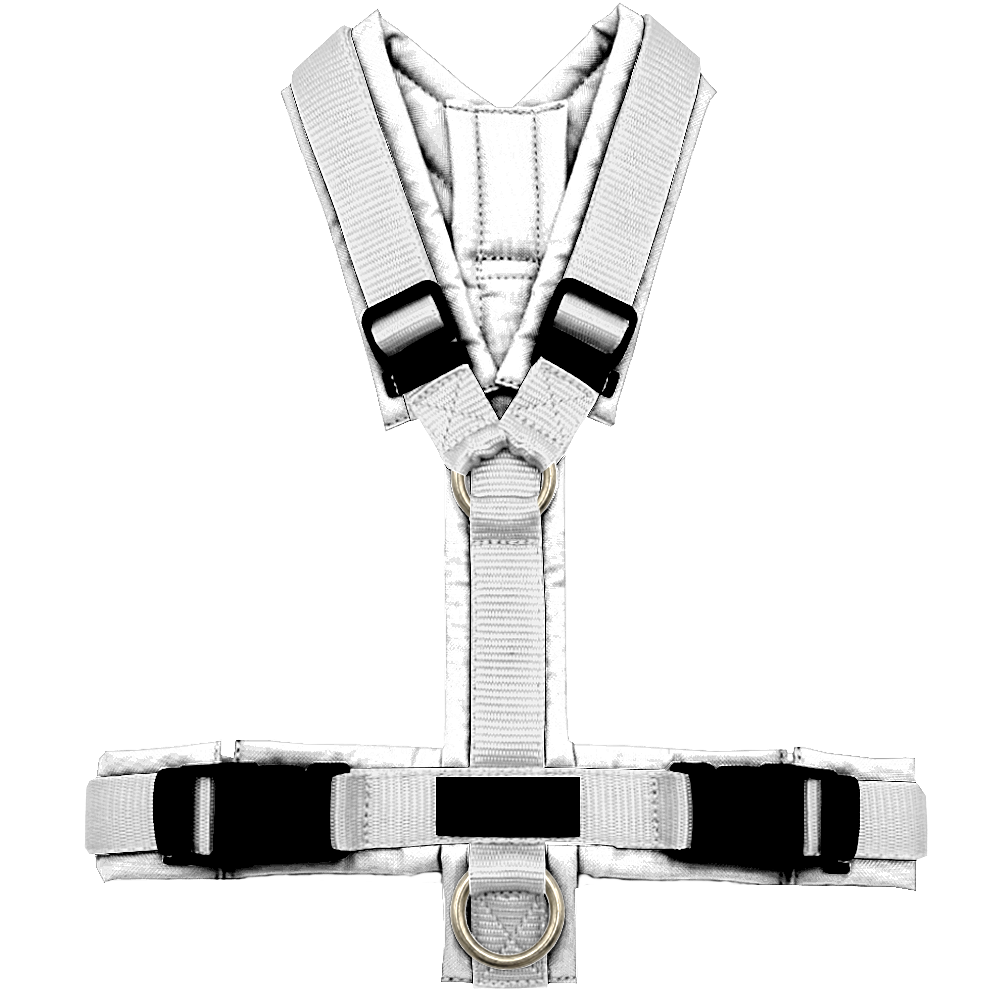
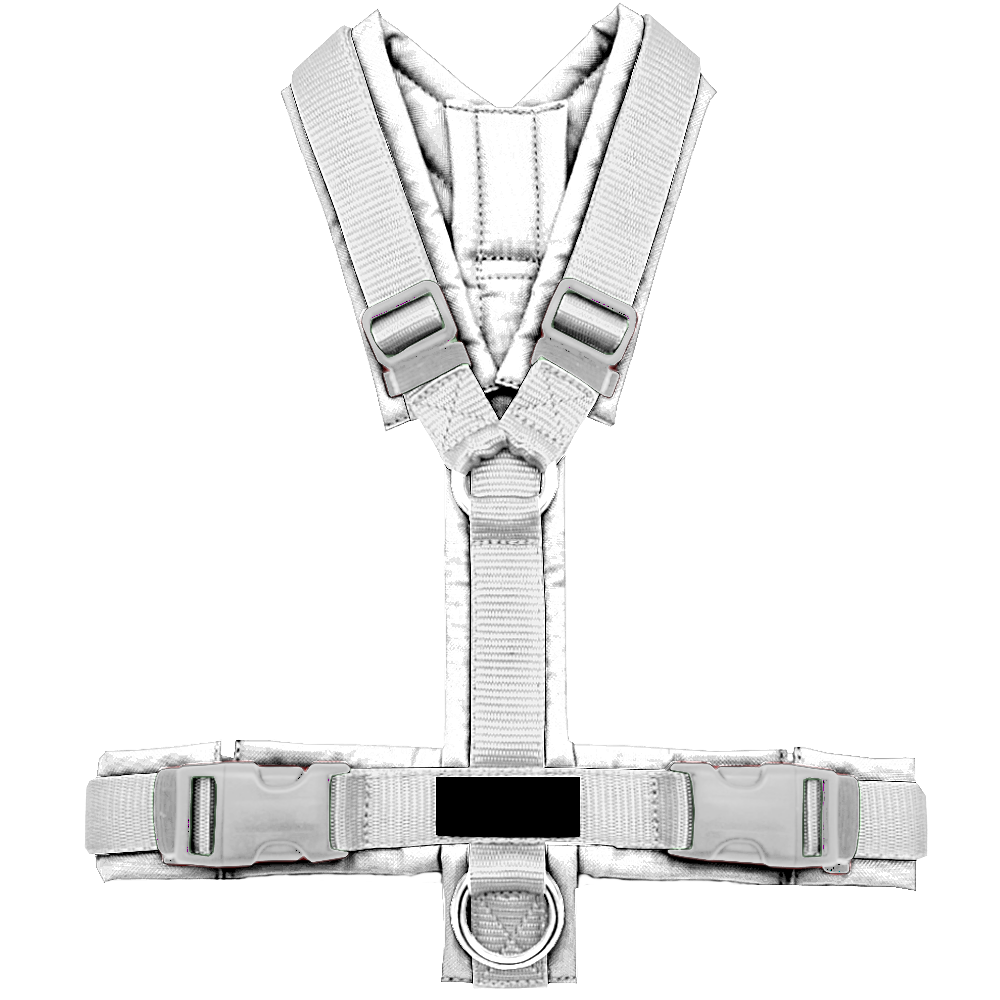
Use real leather label image, restore Schnallen shading structure
Draws the actual leather+logo photo for the label instead of a flat
placeholder color, and re-includes Schnallen in the shading multiply
now that the source photo's buckle area has been brightened, so the
stitching/contour detail shows again without darkening white/black.

diff --git a/assets/geschirr-configurator.js b/assets/geschirr-configurator.js
@@ -33,6 +33,13 @@
       }));
     }
 
+    const labelSourceEl = document.querySelector('.geschirr-configurator__label-source');
+    if (labelSourceEl) {
+      loadPromises.push(loadImage(labelSourceEl.src).then((loaded) => {
+        maskImages.__labelSource = loaded;
+      }));
+    }
+
     function shadeHex(hex, amount) {
       const num = parseInt(hex.replace('#', ''), 16);
       let r = (num >> 16) + amount;
@@ -52,13 +59,13 @@
 
     function paintRingShine(ctx, cx, cy, r, hex) {
       const grad = ctx.createRadialGradient(cx, cy, 0, cx, cy, r);
-      grad.addColorStop(0, shadeHex(hex, 255));
-      grad.addColorStop(0.18, shadeHex(hex, 120));
-      grad.addColorStop(0.32, shadeHex(hex, 10));
-      grad.addColorStop(0.5, shadeHex(hex, 160));
-      grad.addColorStop(0.68, shadeHex(hex, -60));
-      grad.addColorStop(0.86, shadeHex(hex, -140));
-      grad.addColorStop(1, shadeHex(hex, -200));
+      grad.addColorStop(0, shadeHex(hex, 150));
+      grad.addColorStop(0.18, shadeHex(hex, 70));
+      grad.addColorStop(0.32, shadeHex(hex, 20));
+      grad.addColorStop(0.5, shadeHex(hex, 90));
+      grad.addColorStop(0.68, shadeHex(hex, -20));
+      grad.addColorStop(0.86, shadeHex(hex, -65));
+      grad.addColorStop(1, shadeHex(hex, -95));
 
       ctx.save();
       ctx.beginPath();
@@ -161,7 +168,7 @@
       ctx.drawImage(maskImages.__shadingSource, 0, 0, shadingCanvas.width, shadingCanvas.height);
 
       ctx.globalCompositeOperation = 'destination-out';
-      ['metal', 'schnallen', 'label'].forEach((layer) => {
+      ['metal', 'label'].forEach((layer) => {
         if (maskImages[layer]) {
           ctx.drawImage(maskImages[layer], 0, 0, shadingCanvas.width, shadingCanvas.height);
         }
@@ -170,10 +177,31 @@
       ctx.globalCompositeOperation = 'source-over';
     }
 
+    function paintLabel() {
+      const canvas = canvases.label;
+      const mask = maskImages.label;
+      if (!canvas || !mask) return;
+
+      const ctx = canvas.getContext('2d');
+      ctx.clearRect(0, 0, canvas.width, canvas.height);
+      ctx.globalCompositeOperation = 'source-over';
+
+      if (maskImages.__labelSource) {
+        ctx.drawImage(maskImages.__labelSource, 0, 0, canvas.width, canvas.height);
+      } else {
+        ctx.fillStyle = '#D9BFA0';
+        ctx.fillRect(0, 0, canvas.width, canvas.height);
+      }
+
+      ctx.globalCompositeOperation = 'destination-in';
+      ctx.drawImage(mask, 0, 0, canvas.width, canvas.height);
+      ctx.globalCompositeOperation = 'source-over';
+    }
+
     Promise.all(loadPromises).then(() => {
       paintShading();
       paintOutline();
-      paintLayer('label', '#D9BFA0', false);
+      paintLabel();
       document.querySelectorAll('fieldset[data-layer]').forEach((fieldset) => {
         const layer = fieldset.dataset.layer;
         const checked = fieldset.querySelector('input:checked');
